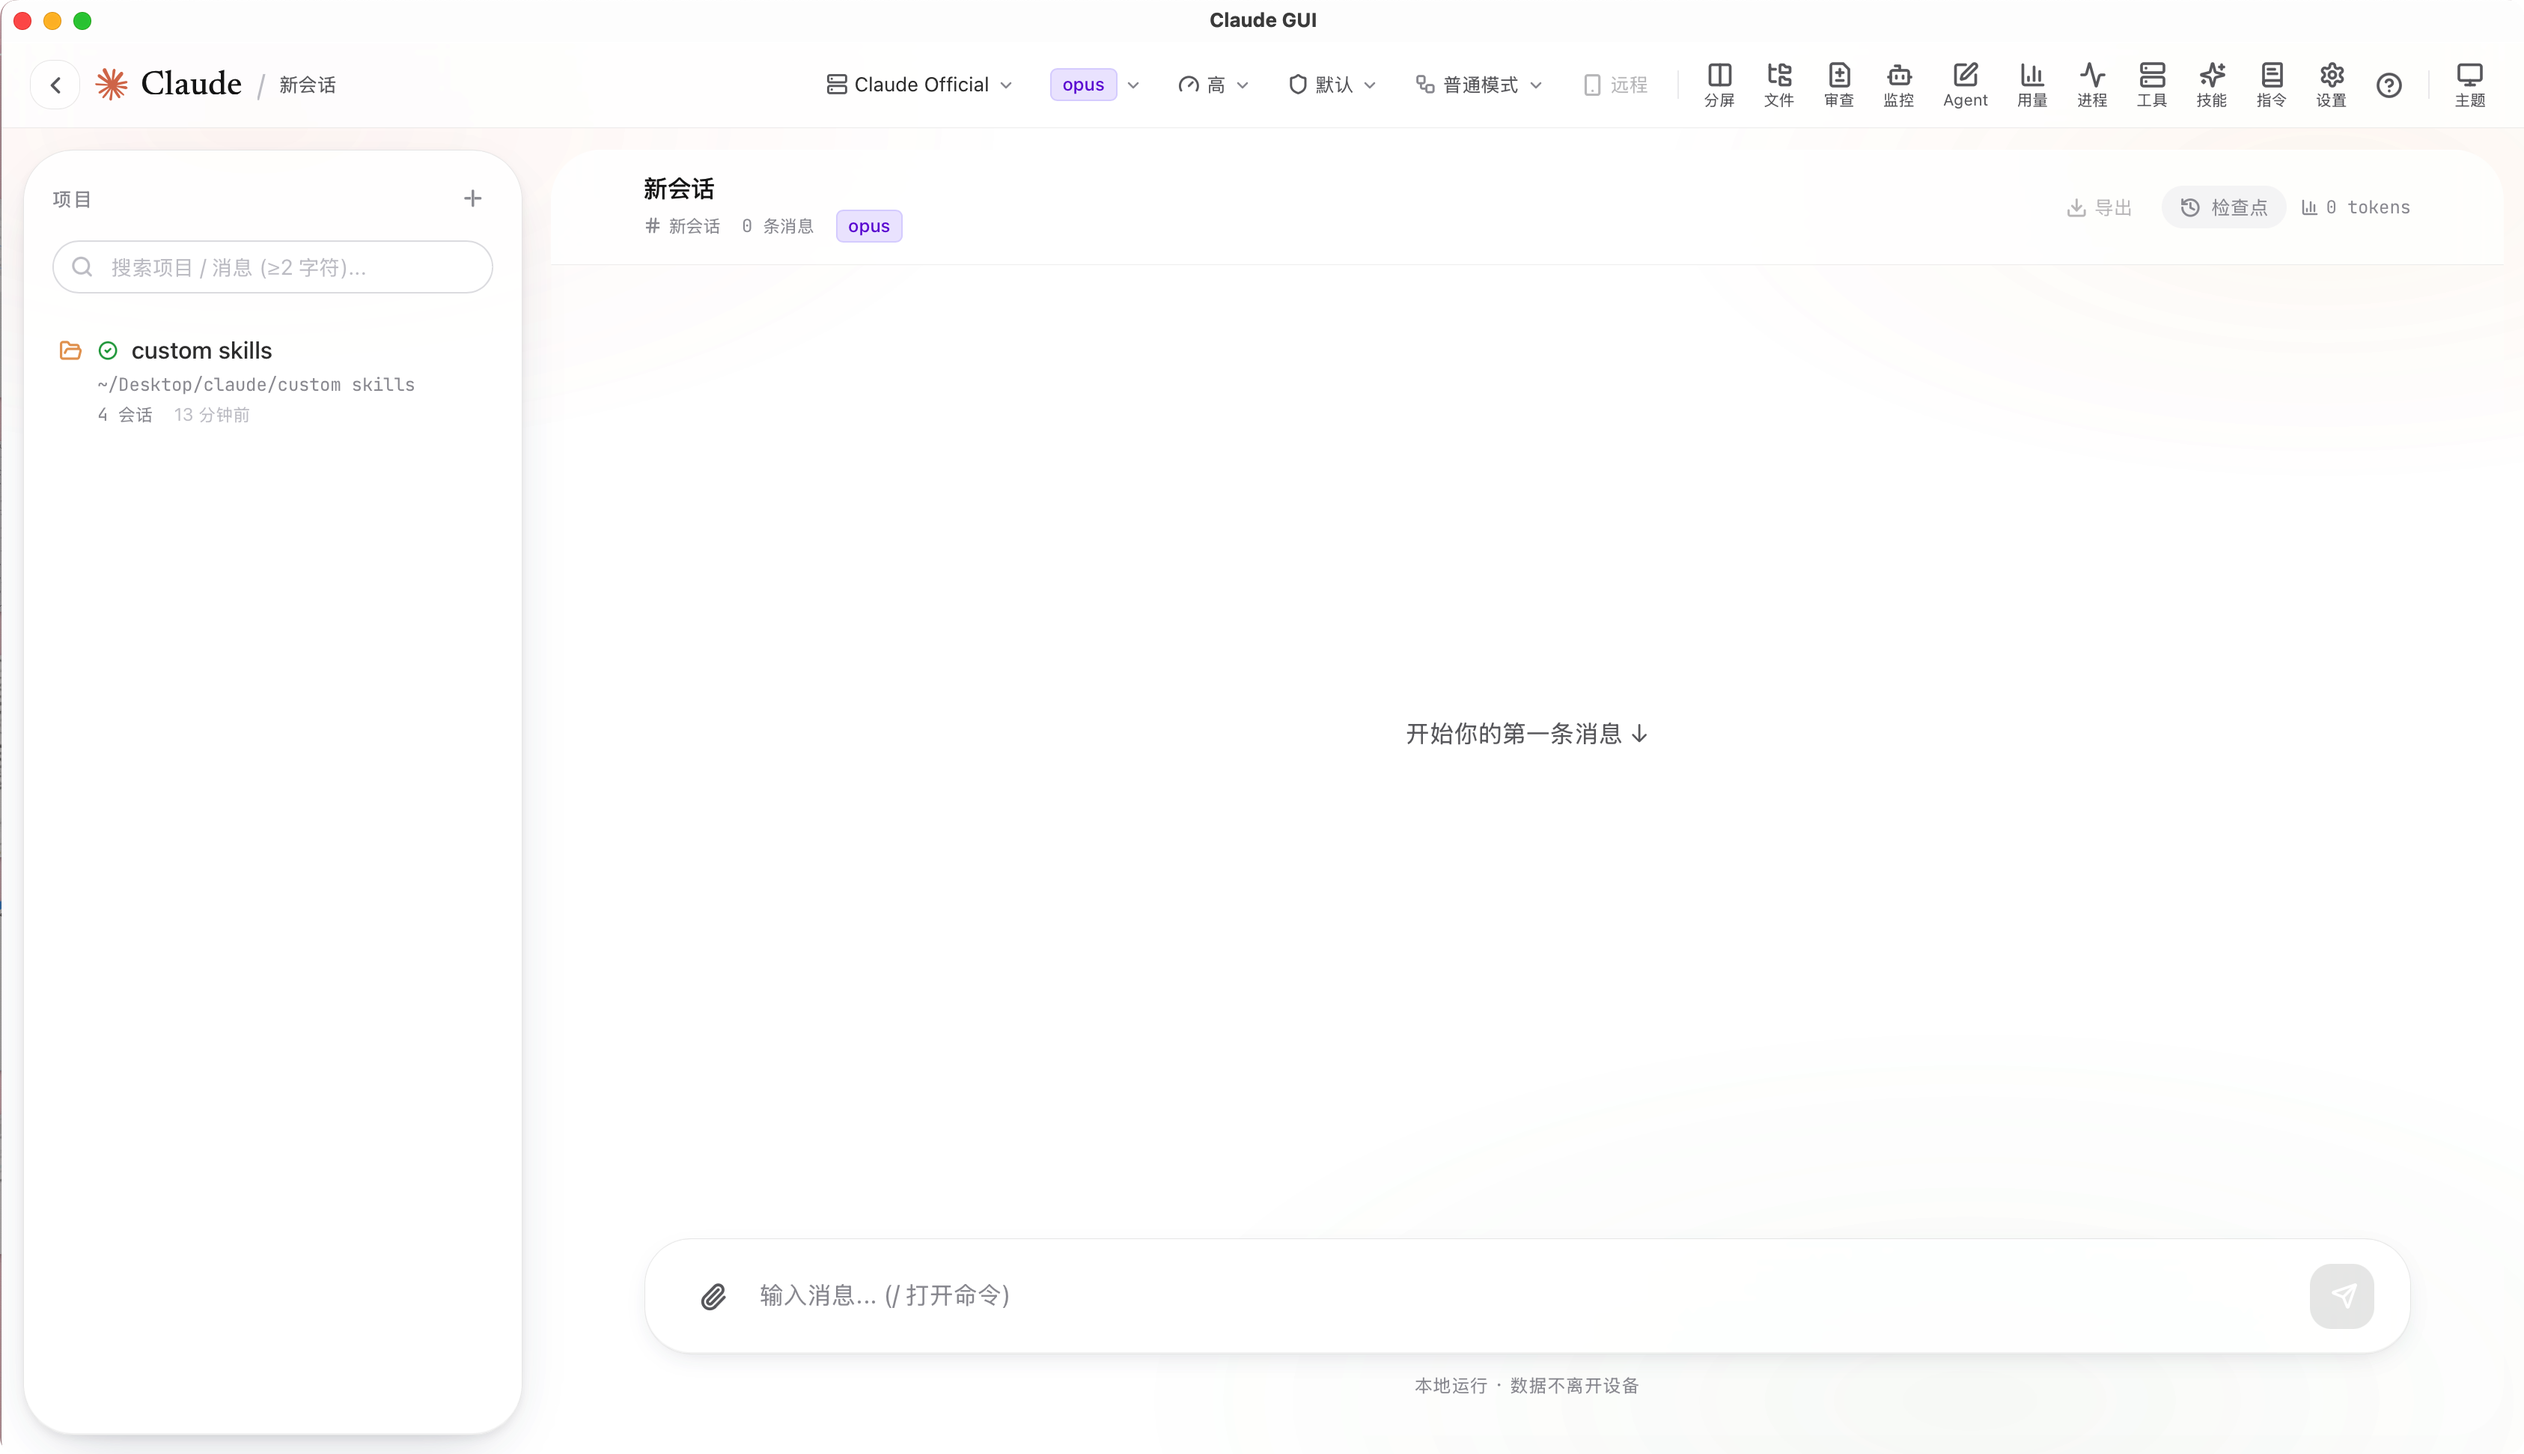
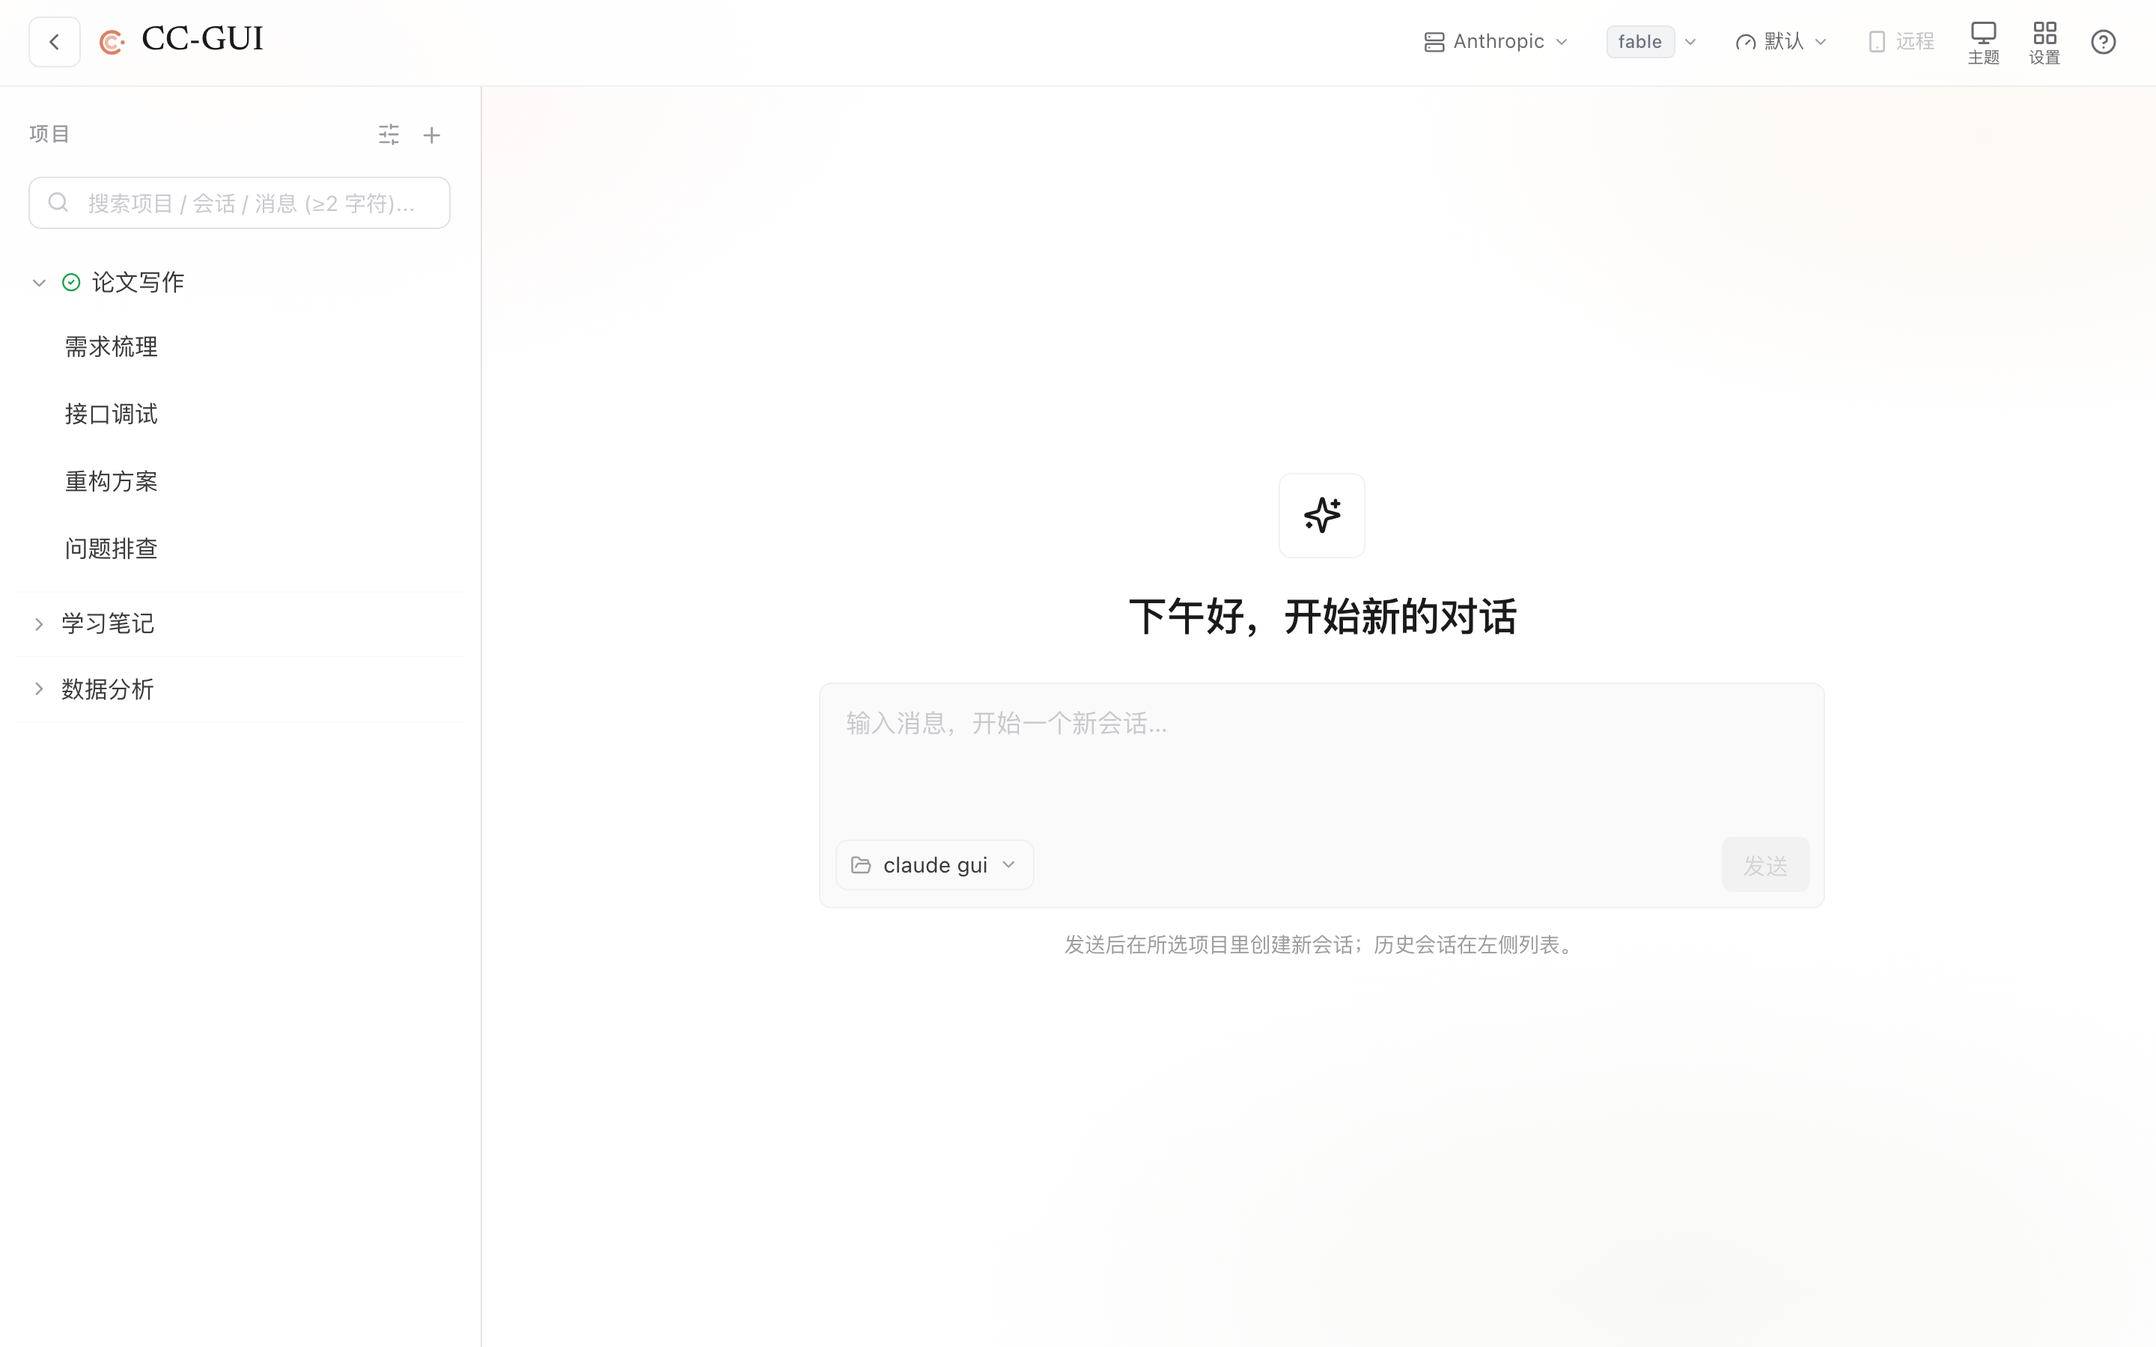
docs(readme): 主界面截图与产品名更新到 CC-GUI 现状——旧图是 7 月版(Claude 字标/悬浮圆角侧栏/项目行带路径/顶栏文字按钮),与现状全不一致;新图用 Playwright 以 2x 分辨率拍装机版真实界面(CC-GUI 字标+双弧图标、dsh 式折叠树展开态、通栏侧栏与细线分隔、新建会话页、顶栏等高控件),bot 悬浮钮与个人项目/会话名以中性占位替换后再拍(公开仓不含个人信息);README/README.en 里的产品名、安装包名(Claude GUI_*→CC-GUI_*)、xattr 命令路径(/Applications/CC-GUI.app)一并同步

diff --git a/README.md b/README.md
@@ -1,4 +1,4 @@
-# Claude GUI
+# CC-GUI
 
 <p align="center">
   <a href="LICENSE"><img src="https://img.shields.io/badge/license-MIT-blue.svg" alt="License: MIT"></a>
@@ -9,18 +9,18 @@
 
 <p align="center"><a href="README.en.md">English</a> | 中文</p>
 
-**Claude GUI 是 [Claude Code](https://docs.anthropic.com/en/docs/claude-code) CLI 的本地图形外壳**:一个 Tauri 桌面应用 + 浏览器界面 + 手机友好布局。浏览并续接会话、分屏对比、图形化批准权限与计划,还能经 Tailscale 等私有网络在手机上接管正在跑的会话。
+**CC-GUI 是 [Claude Code](https://docs.anthropic.com/en/docs/claude-code) CLI 的本地图形外壳**:一个 Tauri 桌面应用 + 浏览器界面 + 手机友好布局。浏览并续接会话、分屏对比、图形化批准权限与计划,还能经 Tailscale 等私有网络在手机上接管正在跑的会话。
 
-> **English**: Claude GUI is a fully local graphical shell for the Claude Code CLI — a Tauri desktop app, a browser UI, and a mobile-friendly layout. Zero telemetry: every session runs through the `claude` CLI on your own machine. Split-screen sessions with per-pane model/permission, third-party provider switching, graphical permission & plan-review cards, subagent visualization, skills marketplace, and phone takeover over a private network.
+> **English**: CC-GUI is a fully local graphical shell for the Claude Code CLI — a Tauri desktop app, a browser UI, and a mobile-friendly layout. Zero telemetry: every session runs through the `claude` CLI on your own machine. Split-screen sessions with per-pane model/permission, third-party provider switching, graphical permission & plan-review cards, subagent visualization, skills marketplace, and phone takeover over a private network.
 
 <p align="center">
-  <img src="docs/screenshots/hero.png" alt="Claude GUI 主界面" width="880"><br>
+  <img src="docs/screenshots/hero.png" alt="CC-GUI 主界面" width="880"><br>
   <em>主界面:顶栏一排即全部能力——模型 / 思考强度 / 权限模式 / Provider 切换,以及分屏、文件、审查、监控、Agent、用量、技能、MCP 工具等面板入口</em>
 </p>
 
 ---
 
-## 为什么是 Claude GUI
+## 为什么是 CC-GUI
 
 - **纯本地、零遥测** —— 不收集任何数据,所有会话都走你自己机器上的 `claude` 进程,没有云、没有账号、没有中间人
 - **分屏多会话** —— 多窗格并排,每个窗格独立的模型 / 权限模式 / 思考强度
@@ -111,9 +111,9 @@ GUI 只是 `claude` CLI 的外壳,**唯一硬性前置是装好 Claude Code CLI*
 
 | 平台 | 文件 |
 |---|---|
-| Windows 安装程序 | `Claude GUI_*_x64-setup.exe` |
-| Windows MSI | `Claude GUI_*_x64_en-US.msi` |
-| macOS(Apple Silicon) | `Claude GUI_*_aarch64.dmg` |
+| Windows 安装程序 | `CC-GUI_*_x64-setup.exe` |
+| Windows MSI | `CC-GUI_*_x64_en-US.msi` |
+| macOS(Apple Silicon) | `CC-GUI_*_aarch64.dmg` |
 
 > 安装包未签名 / 未公证:
 > - **macOS**:首次打开「右键图标 → 打开」绕过 Gatekeeper(仅支持 Apple Silicon,Intel Mac 需自行用 `x86_64-apple-darwin` target 构建)。
@@ -183,13 +183,13 @@ npm run tauri:build
 | 打开白屏 / 发不了消息 | 确认 `claude` CLI 能用、Node ≥ 20;删掉 `client/dist` 后重新 `npm run build` |
 | 改了代码不生效 | 源码方式下需重新 `npm run build`(或重新双击 `gui.command` / `gui.bat`) |
 | macOS 双击 `gui.command` 没反应 | 「右键 → 打开」授权一次;或终端 `chmod +x gui.command` |
-| **macOS 提示「Claude GUI.app 已损坏,无法打开」**(且「隐私与安全性」里没有「仍要打开」按钮,macOS 15 后常见) | 这不是真损坏,是 Gatekeeper 给未签名 app 加的 quarantine 标记。终端跑一次:`sudo xattr -rd com.apple.quarantine "/Applications/Claude GUI.app"` 输入登录密码后再双击即可 |
+| **macOS 提示「CC-GUI.app 已损坏,无法打开」**(且「隐私与安全性」里没有「仍要打开」按钮,macOS 15 后常见) | 这不是真损坏,是 Gatekeeper 给未签名 app 加的 quarantine 标记。终端跑一次:`sudo xattr -rd com.apple.quarantine "/Applications/CC-GUI.app"` 输入登录密码后再双击即可 |
 
 ---
 
 ## 致谢
 
-- **[cc-switch](https://github.com/farion1231/cc-switch)**(作者 [farion1231](https://github.com/farion1231))—— 优秀的 Claude Code 多 Provider 配置管理工具。Claude GUI 的「从 cc-switch 一键导入 Provider」功能与它对接,Provider 管理的设计也从中受益良多,特此感谢。
+- **[cc-switch](https://github.com/farion1231/cc-switch)**(作者 [farion1231](https://github.com/farion1231))—— 优秀的 Claude Code 多 Provider 配置管理工具。CC-GUI 的「从 cc-switch 一键导入 Provider」功能与它对接,Provider 管理的设计也从中受益良多,特此感谢。
 
 ---
 

diff --git a/README.en.md b/README.en.md
@@ -1,13 +1,13 @@
-# Claude GUI
+# CC-GUI
 
 English | [中文（主文档）](README.md)
 
-Claude GUI is a local graphical shell for the [Claude Code](https://docs.anthropic.com/en/docs/claude-code) CLI: a Tauri desktop app, a browser UI, and a mobile-friendly layout. Once running, you can browse and continue Claude Code sessions, send messages, compare panes side by side, and reach it from your phone over a private network such as Tailscale.
+CC-GUI is a local graphical shell for the [Claude Code](https://docs.anthropic.com/en/docs/claude-code) CLI: a Tauri desktop app, a browser UI, and a mobile-friendly layout. Once running, you can browse and continue Claude Code sessions, send messages, compare panes side by side, and reach it from your phone over a private network such as Tailscale.
 
 > Fully local — it collects no data; every session runs through the `claude` CLI on your own machine.
 
 <p align="center">
-  <img src="docs/screenshots/hero.png" alt="Claude GUI main window" width="880"><br>
+  <img src="docs/screenshots/hero.png" alt="CC-GUI main window" width="880"><br>
   <em>Main window: the top bar covers it all — model / thinking effort / permission mode / provider switching, plus panels for split-screen, files, review, monitoring, agents, usage, skills and MCP tools</em>
 </p>
 
@@ -78,9 +78,9 @@ Grab your platform from the [Releases page](https://github.com/wsxwj123/claude-g
 
 | Platform | File |
 |---|---|
-| Windows (installer) | `Claude GUI_*_x64-setup.exe` |
-| Windows (MSI) | `Claude GUI_*_x64_en-US.msi` |
-| macOS (Apple Silicon) | `Claude GUI_*_aarch64.dmg` |
+| Windows (installer) | `CC-GUI_*_x64-setup.exe` |
+| Windows (MSI) | `CC-GUI_*_x64_en-US.msi` |
+| macOS (Apple Silicon) | `CC-GUI_*_aarch64.dmg` |
 
 > Packages are unsigned / un-notarized:
 > - **macOS**: right-click the app → **Open** the first time to bypass Gatekeeper (Apple Silicon only; for Intel Macs build with the `x86_64-apple-darwin` target yourself).
@@ -150,13 +150,13 @@ Output lands in `src-tauri/target/release/bundle/` (`.dmg` on macOS, `.exe` / `.
 | Blank page / can't send | Confirm the `claude` CLI works and Node ≥ 20; delete `client/dist` and `npm run build` again |
 | Code changes not showing | From source you must `npm run build` again (or re-launch `gui.command` / `gui.bat`) |
 | macOS `gui.command` does nothing | Right-click → **Open** once to authorize, or `chmod +x gui.command` |
-| **macOS says "Claude GUI.app is damaged and can't be opened"** (and Privacy & Security has no **Open Anyway** button — common on macOS 15+) | Not actually damaged — Gatekeeper added a quarantine flag to the unsigned app. In Terminal: `sudo xattr -rd com.apple.quarantine "/Applications/Claude GUI.app"` then enter your login password and double-click again |
+| **macOS says "CC-GUI.app is damaged and can't be opened"** (and Privacy & Security has no **Open Anyway** button — common on macOS 15+) | Not actually damaged — Gatekeeper added a quarantine flag to the unsigned app. In Terminal: `sudo xattr -rd com.apple.quarantine "/Applications/CC-GUI.app"` then enter your login password and double-click again |
 
 ---
 
 ## Acknowledgments
 
-- **[cc-switch](https://github.com/farion1231/cc-switch)** by [farion1231](https://github.com/farion1231) — an excellent multi-provider configuration manager for Claude Code. Claude GUI's one-click "import from cc-switch" integrates with it, and its provider management influenced our design. Thank you!
+- **[cc-switch](https://github.com/farion1231/cc-switch)** by [farion1231](https://github.com/farion1231) — an excellent multi-provider configuration manager for Claude Code. CC-GUI's one-click "import from cc-switch" integrates with it, and its provider management influenced our design. Thank you!
 
 ---
 
